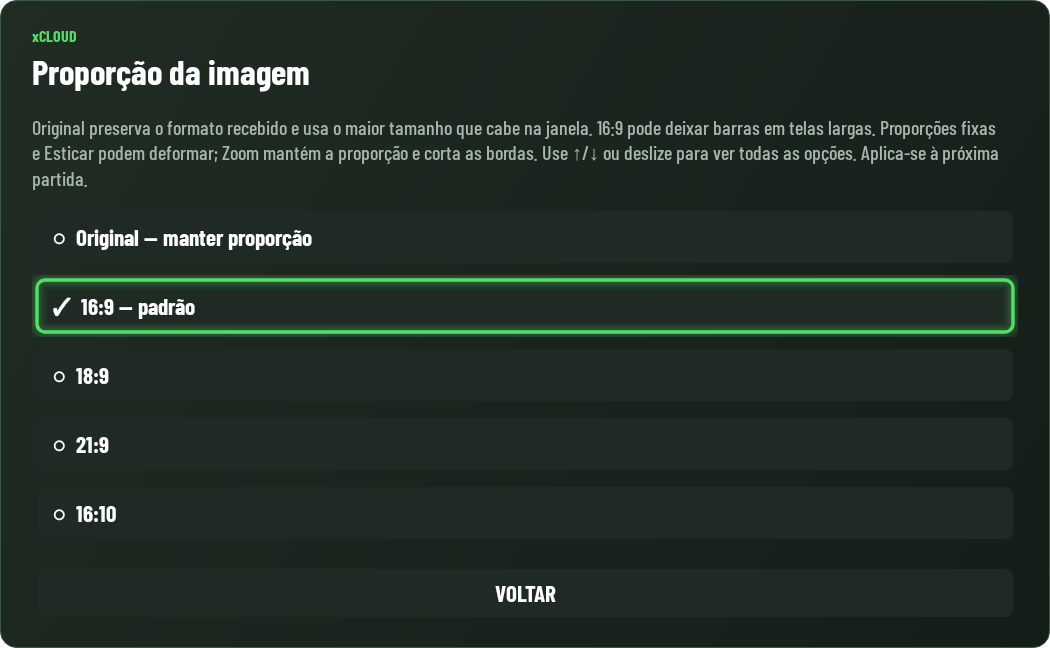
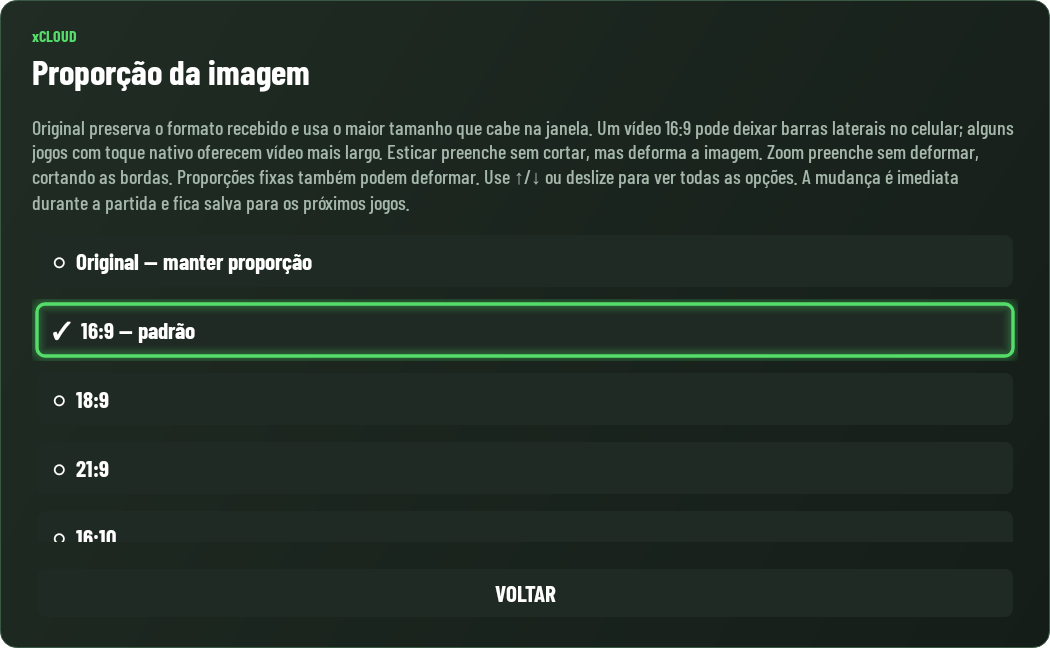
feat: ajustar proporção durante a partida e documentar toque nativo

Changed region(s): [[0.0305, 0.1852, 0.9752, 0.6481], [0.0305, 0.679, 0.1219, 0.7407], [0.061, 0.7716, 0.1219, 0.8333]]

diff --git a/app/src/test/java/com/xcloud/tclnative/LiveAspectUiTest.kt b/app/src/test/java/com/xcloud/tclnative/LiveAspectUiTest.kt
@@ -1,0 +1,98 @@
+package com.xcloud.tclnative
+
+import android.app.Activity
+import android.os.Looper
+import android.view.MotionEvent
+import android.view.View
+import android.view.ViewGroup
+import android.widget.FrameLayout
+import android.widget.TextView
+import com.xcloud.tclnative.renderer.AiPqSurfaceRenderer
+import com.xcloud.tclnative.settings.*
+import com.xcloud.tclnative.ui.GameTouchView
+import com.xcloud.tclnative.ui.MainActivity
+import com.xcloud.tclnative.ui.dashboard.*
+import com.xcloud.tclnative.webrtc.NativePointer
+import org.junit.Assert.*
+import org.junit.Test
+import org.junit.runner.RunWith
+import org.robolectric.Robolectric
+import org.robolectric.RobolectricTestRunner
+import org.robolectric.Shadows.shadowOf
+import org.robolectric.annotation.Config
+import org.robolectric.shadows.ShadowDialog
+import org.robolectric.util.ReflectionHelpers
+
+@RunWith(RobolectricTestRunner::class)
+@Config(sdk=[29],qualifiers="w1452dp-h689dp-land-mdpi")
+class LiveAspectUiTest {
+    private fun all(view: View): List<View> = listOf(view)+if(view is ViewGroup)
+        (0 until view.childCount).flatMap { all(view.getChildAt(it)) } else emptyList()
+    private fun choose(text: String) {
+        val dialog=ShadowDialog.getLatestDialog() as ConsoleDialog
+        all(dialog.body).filterIsInstance<TextView>().single { it.isClickable && it.text.contains(text) }.performClick()
+    }
+    private fun layout(view: View) {
+        view.measure(View.MeasureSpec.makeMeasureSpec(1452,View.MeasureSpec.EXACTLY),View.MeasureSpec.makeMeasureSpec(689,View.MeasureSpec.EXACTLY))
+        view.layout(0,0,1452,689)
+    }
+    @Test fun gameMenuAppliesStretchAndZoomWithoutReconnectingAndReleasesContactsInTheOldSpace() {
+        val controller=Robolectric.buildActivity(Activity::class.java).setup()
+        val context=controller.get()
+        context.setContentView(FrameLayout(context))
+        val renderer=AiPqSurfaceRenderer(context)
+        val pointers=mutableListOf<NativePointer>()
+        val touch=GameTouchView(context,{}, {pointers.addAll(it)},renderer::touchCoordinates,{})
+        // Invoke the Activity's production settings callback without starting auth or JNI/WebRTC.
+        val activity=MainActivity()
+        ReflectionHelpers.setField(activity,"surfaceRenderer",renderer)
+        ReflectionHelpers.setField(activity,"touchView",touch)
+        val apply=MainActivity::class.java.getDeclaredMethod("applyPlaybackSettings",PlaybackSettings::class.java).apply { isAccessible=true }
+        val store=PlaybackSettingsStore(context)
+        store.save(PlaybackSettings(aspect=VideoAspect.ORIGINAL))
+        renderer.aspect=VideoAspect.ORIGINAL
+        ReflectionHelpers.setField(renderer,"videoWidth",1280)
+        ReflectionHelpers.setField(renderer,"videoHeight",720)
+        layout(renderer);layout(touch);touch.configure(TouchMode.NATIVE)
+        fun down() { MotionEvent.obtain(0,10,MotionEvent.ACTION_DOWN,400f,300f,0).also { touch.dispatchTouchEvent(it);it.recycle() } }
+        var changes=0;var menus=0
+        val panel=PlaybackSettingsPanel(context,store,{changes++;apply.invoke(activity,it)},{},{},{})
+        fun gameMenu() {
+            menus++
+            GameMenuPanel.show(context,{}, {}, {}, {},aspect={panel.chooseAspect(onBack=::gameMenu)})
+        }
+        try {
+            assertNull(renderer.touchCoordinates(0f,300f))
+            down();assertEquals(listOf(1),pointers.map { it.type })
+            gameMenu();choose("Proporção da imagem")
+            assertEquals(0,changes);assertEquals(VideoAspect.ORIGINAL,renderer.aspect)
+            choose("Esticar —")
+            assertEquals(1,changes);assertEquals(2,menus)
+            assertEquals(VideoAspect.STRETCH,renderer.aspect)
+            assertEquals(VideoAspect.STRETCH,PlaybackSettingsStore(context).read().aspect)
+            assertEquals(listOf(1,2),pointers.map { it.type })
+            assertEquals(pointers.first().x,pointers.last().x,0f)
+            assertEquals(pointers.first().y,pointers.last().y,0f)
+            assertEquals(0f,renderer.touchCoordinates(0f,0f)!!.first,0f)
+            assertEquals(1f,renderer.touchCoordinates(1452f,689f)!!.second,0f)
+            down();val contacts=pointers.size
+            apply.invoke(activity,store.read().copy(brightness=25))
+            assertEquals(contacts,pointers.size) // Image filters must not release an unchanged touch space.
+            choose("Proporção da imagem")
+            (ShadowDialog.getLatestDialog() as ConsoleDialog).cancel()
+            shadowOf(Looper.getMainLooper()).idle()
+            assertEquals(1,changes);assertEquals(3,menus)
+            assertEquals(VideoAspect.STRETCH,renderer.aspect)
+            choose("Proporção da imagem");choose("Zoom —")
+            assertEquals(2,changes);assertEquals(VideoAspect.ZOOM,renderer.aspect)
+            val top=renderer.touchCoordinates(0f,0f)!!
+            assertEquals(0f,top.first,0f)
+            assertTrue(top.second in .07f.. .09f)
+            assertEquals(.5f,renderer.touchCoordinates(726f,344.5f)!!.second,.00001f)
+        } finally {
+            (ShadowDialog.getLatestDialog() as? ConsoleDialog)?.dismiss()
+            touch.releaseInputs();renderer.release()
+            controller.pause().stop().destroy()
+        }
+    }
+}

diff --git a/app/src/main/java/com/xcloud/tclnative/ui/dashboard/PlaybackSettingsPanel.kt b/app/src/main/java/com/xcloud/tclnative/ui/dashboard/PlaybackSettingsPanel.kt
@@ -145,11 +145,13 @@ class PlaybackSettingsPanel(
         return choices("Saída do FSR","Define a apresentação local, sem aumentar a resolução recebida nem o consumo de rede. Automático acompanha a janela, limitado a 1080p nas TVs, priorizando a fluidez. As escolhas são limitadas pela saída física disponível e preservam a proporção. 1440p e 4K têm custo maior de GPU; não garantem 60 FPS. Requer AMD FSR ativado; Compatibilidade mantém o filtro desligado. O app retorna à escala padrão se o filtro falhar ou se a cadência ficar muito baixa por vários segundos com vídeo chegando. Aplica-se à próxima partida.",
             FsrOutput.entries.map { it.label to (it==current.fsrOutput) }) { save(current.copy(fsrOutput=FsrOutput.entries[it])) }
     }
-    fun chooseAspect(): ConsoleDialog {
+    fun chooseAspect(onBack: () -> Unit = { showImage() }): ConsoleDialog {
         enter(SettingsPage.IMAGE)
         val current=store.read()
-        return choices("Proporção da imagem","Original preserva o formato recebido e usa o maior tamanho que cabe na janela. 16:9 pode deixar barras em telas largas. Proporções fixas e Esticar podem deformar; Zoom mantém a proporção e corta as bordas. Use ↑/↓ ou deslize para ver todas as opções. Aplica-se à próxima partida.",
-            VideoAspect.entries.map { it.label to (it==current.aspect) }) { save(current.copy(aspect=VideoAspect.entries[it])) }
+        return choices("Proporção da imagem","Original preserva o formato recebido e usa o maior tamanho que cabe na janela. Um vídeo 16:9 pode deixar barras laterais no celular; alguns jogos com toque nativo oferecem vídeo mais largo. Esticar preenche sem cortar, mas deforma a imagem. Zoom preenche sem deformar, cortando as bordas. Proporções fixas também podem deformar. Use ↑/↓ ou deslize para ver todas as opções. A mudança é imediata durante a partida e fica salva para os próximos jogos.",
+            VideoAspect.entries.map { it.label to (it==current.aspect) },onBack=onBack) {
+            save(current.copy(aspect=VideoAspect.entries[it]),onBack)
+        }
     }
     fun showImageAdjustments(onBack: () -> Unit = { showImage() }): ConsoleDialog {
         enter(SettingsPage.IMAGE)

diff --git a/app/src/main/java/com/xcloud/tclnative/ui/MainActivity.kt b/app/src/main/java/com/xcloud/tclnative/ui/MainActivity.kt
@@ -759,6 +759,11 @@ open class MainActivity : Activity() {
     }
     private fun applyPlaybackSettings(settings: PlaybackSettings) {
         playbackSettings=settings
+        if(surfaceRenderer.aspect!=settings.aspect) {
+            // End contacts in the old coordinate space before changing the displayed video.
+            touchView.releaseInputs()
+            surfaceRenderer.aspect=settings.aspect
+        }
         surfaceRenderer.setImageAdjustments(settings.sharpness,settings.saturation,settings.brightness,settings.contrast)
         surfaceRenderer.setFsrSharpness(settings.fsrSharpness)
         webrtcClient?.setOutputGain(settings.audioGain)
@@ -779,6 +784,7 @@ open class MainActivity : Activity() {
         resetController()
         gameMenuDialog = com.xcloud.tclnative.ui.dashboard.GameMenuPanel.show(this,
             image={ PlaybackSettingsPanel(this,settingsStore,::applyPlaybackSettings,{}, {}, {}).showImageAdjustments(onBack={ showGameMenu() }) },
+            aspect={ PlaybackSettingsPanel(this,settingsStore,::applyPlaybackSettings,{}, {}, {}).chooseAspect(onBack={ showGameMenu() }) },
             statistics={ cycleStatistics() },
             diagnostics={ showCopyableErrorDialog("Áudio e vídeo","${Build.MANUFACTURER} ${Build.MODEL} | Android ${Build.VERSION.RELEASE} | ${Build.HARDWARE}\n${surfaceRenderer.diagnostics()}\n${currentSignaling?.profileDiagnostics() ?: ""}\n${webrtcClient?.audioDiagnostics() ?: ""}\n${streamHistory.report()}") },
             disconnect={ cancelPlayback() },

diff --git a/app/src/main/java/com/xcloud/tclnative/ui/dashboard/GameMenuPanel.kt b/app/src/main/java/com/xcloud/tclnative/ui/dashboard/GameMenuPanel.kt
@@ -6,8 +6,11 @@ import android.content.Context
 object GameMenuPanel {
     fun show(context: Context,image: () -> Unit,statistics: () -> Unit,diagnostics: () -> Unit,
              disconnect: () -> Unit,virtualTouch: (() -> Unit)? = null,hud: (() -> Unit)? = null,sessionOptions: (() -> Unit)? = null,audio: (() -> Unit)? = null,
-             microphone: (() -> Unit)? = null,microphoneLabel: String="Ativar microfone",mouse: (() -> Unit)? = null,controllerProfiles: (() -> Unit)?=null): ConsoleDialog {
-        val actions=mutableListOf(ConsoleAction("Nitidez e saturação",image))
+             microphone: (() -> Unit)? = null,microphoneLabel: String="Ativar microfone",mouse: (() -> Unit)? = null,controllerProfiles: (() -> Unit)?=null,
+             aspect: (() -> Unit)? = null): ConsoleDialog {
+        val actions=mutableListOf<ConsoleAction>()
+        if(aspect!=null) actions+=ConsoleAction("Proporção da imagem",aspect)
+        actions+=ConsoleAction("Ajustes da imagem",image)
         if(virtualTouch!=null) actions+=ConsoleAction("Usar controle virtual nesta partida",virtualTouch)
         if(hud!=null) actions+=ConsoleAction("HUD e controles deste jogo",hud)
         if(sessionOptions!=null) actions+=ConsoleAction("Bitrate, região e idioma deste jogo",sessionOptions)

diff --git a/app/src/test/java/com/xcloud/tclnative/ConsoleUiTest.kt b/app/src/test/java/com/xcloud/tclnative/ConsoleUiTest.kt
@@ -174,7 +174,7 @@ class ConsoleUiTest {
         assertEquals(0,store.read().sharpness); assertEquals(100,store.read().saturation)
         (ShadowDialog.getLatestDialog() as ConsoleDialog).dismiss()
         var stats=0; var disconnected=0; var hudOpened=0
-        val game=GameMenuPanel.show(activity,{}, {stats++}, {}, {disconnected++},hud={hudOpened++})
+        val game=GameMenuPanel.show(activity,{}, {stats++}, {}, {disconnected++},hud={hudOpened++},aspect={})
         render(game,"game-menu")
         all(game.body).filterIsInstance<TextView>().single { it.text.contains("HUD e controles") }.performClick()
         assertEquals(1,hudOpened)

diff --git a/README.md b/README.md
@@ -3,7 +3,7 @@
   <h1>xCLOUD</h1>
   <p><strong>Seus jogos. Na sua tela.</strong></p>
   <p>Cliente Android independente para Xbox Cloud Gaming, com transmissão nativa e interface para Android TV, Google TV e celulares.</p>
-  <p><a href="#conta-e-biblioteca">Biblioteca</a> · <a href="#transmissão-e-fila">Transmissão</a> · <a href="#imagem-e-tela">Imagem</a> · <a href="#controles-e-periféricos">Controles</a> · <a href="#controles-de-toque">Toque</a><br /><a href="#áudio-e-microfone">Áudio</a> · <a href="#rede-e-preferências">Rede</a> · <a href="#estatísticas-e-diagnósticos">Diagnósticos</a> · <a href="#tela-inicial-da-tv">Atalhos na TV</a> · <a href="#compatibilidade">Compatibilidade</a></p>
+  <p><a href="#conta-e-biblioteca">Biblioteca</a> · <a href="#transmissão-e-fila">Transmissão</a> · <a href="#imagem-e-tela">Imagem</a> · <a href="#controles-e-periféricos">Controles</a> · <a href="#touch-nativo">Touch nativo</a> · <a href="#controles-de-toque">HUDs</a><br /><a href="#áudio-e-microfone">Áudio</a> · <a href="#rede-e-preferências">Rede</a> · <a href="#estatísticas-e-diagnósticos">Diagnósticos</a> · <a href="#tela-inicial-da-tv">Atalhos na TV</a> · <a href="#compatibilidade">Compatibilidade</a></p>
 </div>
 
 ![Voltar a jogar no xCLOUD](docs/screenshots/return-to-play.png)
@@ -75,6 +75,8 @@ As imagens abaixo mostram a interface do app com perfil e dados de demonstraçã
 
 - Upscaling nativo do Android.
 - Proporção original, 16:9, 18:9, 21:9, 16:10, 4:3, esticar e zoom.
+- Troca de proporção durante o jogo pelo menu da partida, com aplicação imediata.
+- Original preserva o quadro recebido; Esticar preenche a tela com deformação; Zoom preenche com corte, mantendo a proporção.
 - Ajustes de nitidez, saturação, brilho e contraste durante a partida.
 - **AMD FSR 1.0.2 experimental**, com ampliação EASU e nitidez RCAS; em resolução nativa, aplica somente RCAS.
 - Saída do FSR em **Automático, 1440p ou 4K experimental**, com proteção para retorno à escala padrão.
@@ -121,6 +123,16 @@ As imagens abaixo mostram a interface do app com perfil e dados de demonstraçã
   </tr>
 </table>
 
+## Touch nativo
+
+- Toque nativo Xbox nos jogos que anunciam suporte no catálogo, incluindo **Fortnite**.
+- Os toques são enviados ao jogo, que apresenta seus próprios botões e gestos, sem o HUD virtual do aplicativo.
+- No celular, **Automático** prioriza o toque nativo quando disponível; a opção **Toque nativo Xbox — experimental** permite selecioná-lo manualmente nos títulos compatíveis.
+- Mapeamento dos toques conforme a área do vídeo, incluindo os modos Original, Esticar e Zoom.
+- Giroscópio opcional junto ao toque nativo, em aparelhos com sensor e jogos que aceitem essa combinação de entradas.
+
+O suporte depende do jogo e da sessão. Ter um layout de controle virtual na nuvem não significa ter toque nativo direto. Jogos com vídeo 16:9 podem apresentar barras laterais em celulares largos.
+
 ## Controles de toque
 
 - Controle Xbox virtual e layouts para tiro, corrida, futebol e ação.
@@ -130,7 +142,6 @@ As imagens abaixo mostram a interface do app com perfil e dados de demonstraçã
 - Aplicação do esquema de futebol com restauração dos comandos, mantendo posições e tamanhos personalizados.
 - No CoD, arrasto no botão de mira, opção de mirar ao atirar e corrida ao estender o analógico na direção de Correr.
 - Editor de posição, tamanho, opacidade, comandos combinados e gestos por jogo.
-- Toque nativo Xbox experimental nos títulos compatíveis, incluindo Fortnite.
 
 <table>
   <tr>
